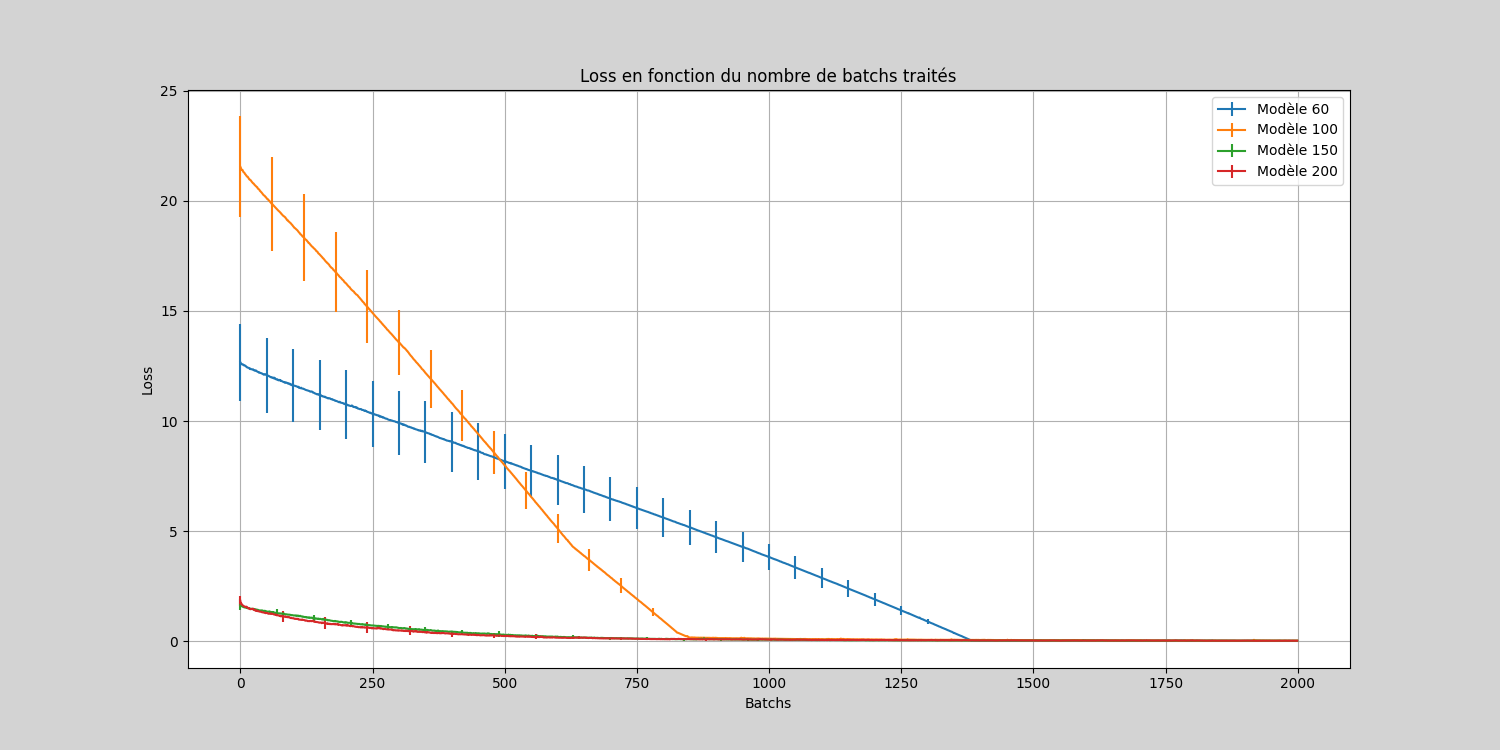
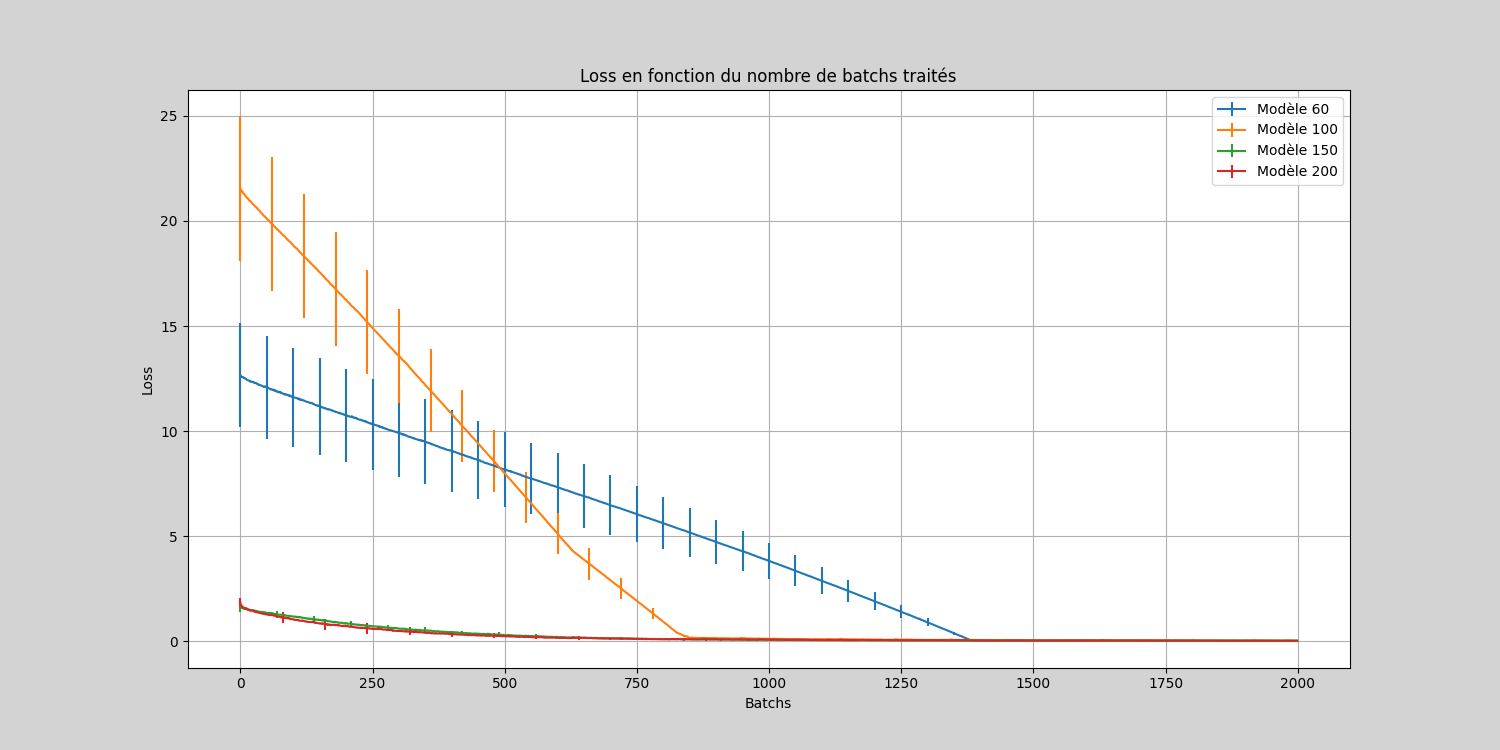
maj graphe

diff --git a/Maxime_ACID/graphes.py b/Maxime_ACID/graphes.py
@@ -61,8 +61,8 @@ std_loss_150 = std_loss_150[:2000]
 std_loss_200 = std_loss_200[:2000]
 
 plt.figure(figsize=(15,7.5),facecolor='lightgrey')
-plt.errorbar(x[:2000], loss_60[:2000], yerr=[std_loss_60[i]*0.07 if (i%50==0) else 0 for i in range(len(std_loss_60))], label='Modèle 60')
-plt.errorbar(x[:2000], loss_100[:2000], yerr=[std_loss_100[i]*0.1 if (i%60==0) else 0 for i in range(len(std_loss_100))], label='Modèle 100')
+plt.errorbar(x[:2000], loss_60[:2000], yerr=[std_loss_60[i]*0.1 if (i%50==0) else 0 for i in range(len(std_loss_60))], label='Modèle 60')
+plt.errorbar(x[:2000], loss_100[:2000], yerr=[std_loss_100[i]*0.15 if (i%60==0) else 0 for i in range(len(std_loss_100))], label='Modèle 100')
 plt.errorbar(x[:2000], loss_150[:2000], yerr=[std_loss_150[i] if (i%70==0) else 0 for i in range(len(std_loss_150))], label='Modèle 150')
 plt.errorbar(x[:2000], loss_200[:2000], yerr=[std_loss_200[i] if (i%80==0) else 0 for i in range(len(std_loss_200))], label='Modèle 200')
 
